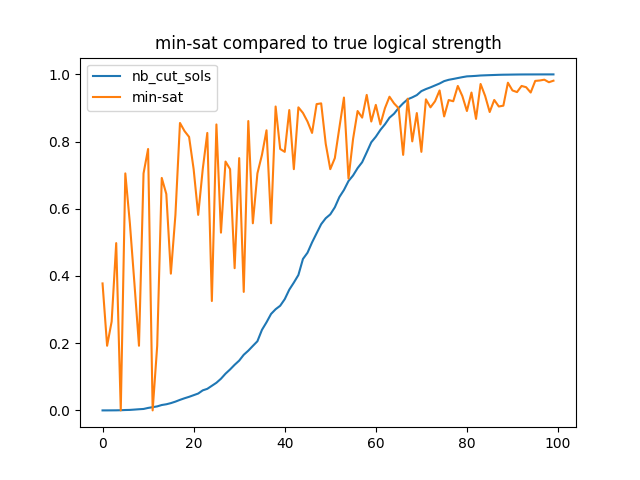
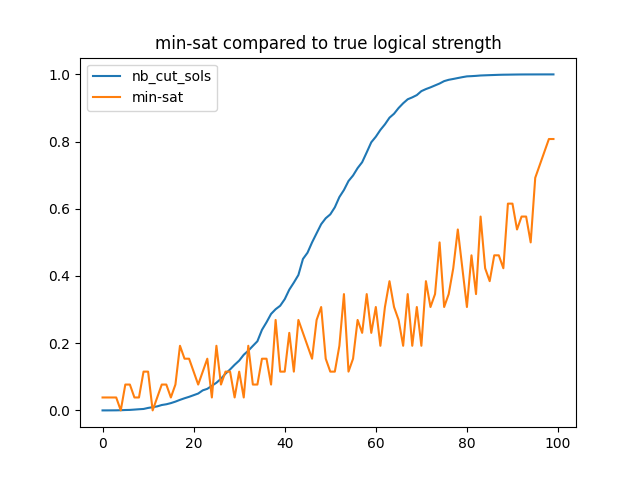
new plots

Changed region(s): [[0.1562, 0.1562, 0.875, 0.8438], [0.8438, 0.2812, 0.875, 0.3438]]

diff --git a/python/strength/analyse.py b/python/strength/analyse.py
@@ -73,6 +73,15 @@ def plot_cors(cors, lb, ub, stepsize):
     plt.xticks(range(len(range(lb, ub, stepsize))), [f'{i}' for i in range(lb, ub, stepsize)], rotation=90)
     plt.show()
 
+def add_max_sat(rows, max_vars):
+    # add max sat
+    for i, row in enumerate(rows):
+        # print(row)
+        row = row[:max_vars+1]
+        const = convert_to_constraint(row)
+        rows[i].append(str(cl.norm_max_sat(const)))
+    return rows
+
 def add_max_sat_std_dev_without_zeros(rows, max_vars):
     # add max sat and std dev without zeros
 
@@ -95,6 +104,7 @@ def add_avg(rows):
     # add average
     for i, row in enumerate(rows):
         heur, size, minsat, stddev, maxsat = float(row[33]), float(row[35]), float(row[36]), float(row[37]), float(row[38])
+        print(heur, size, minsat, stddev, maxsat)
         rows[i].append(str((heur + size + minsat + stddev + maxsat) / 5))
     return rows
 

diff --git a/python/strength/main.py b/python/strength/main.py
@@ -15,9 +15,10 @@ if __name__ == '__main__':
     # gen.generate(nb, max_vars, filename, lb, ub, stepsize)
 
     rows = an.read_csv(filename)
+    rows = an.add_max_sat(rows, max_vars)
     # rows = an.add_max_sat_std_dev_without_zeros(rows, max_vars)
     # rows = an.add_w_average(rows)
-    # rows = an.add_avg(rows)
+    rows = an.adgemd_avg(rows)
     # print(rows)
     rows = an.transform_rows(rows)
     # print(rows[0])
@@ -46,7 +47,7 @@ if __name__ == '__main__':
 
     nb_cut_sols = rows[0]
 
-    measures = ['generalised-slack', 'degree-over-sum-of-constraints', 'normalised-size', 'min-sat', 'stddev', 'max-sat']
+    measures = ['generalised-slack', 'degree-over-sum-of-constraints', 'length', 'normalised-size', 'min-sat', 'std-dev', 'std-dev-min-sat', 'max-sat', 'avg']
     # measures = ['generalised-slack', 'degree-over-sum-of-constraints']
 
     # rows = rows[1:len(measures)+2]
